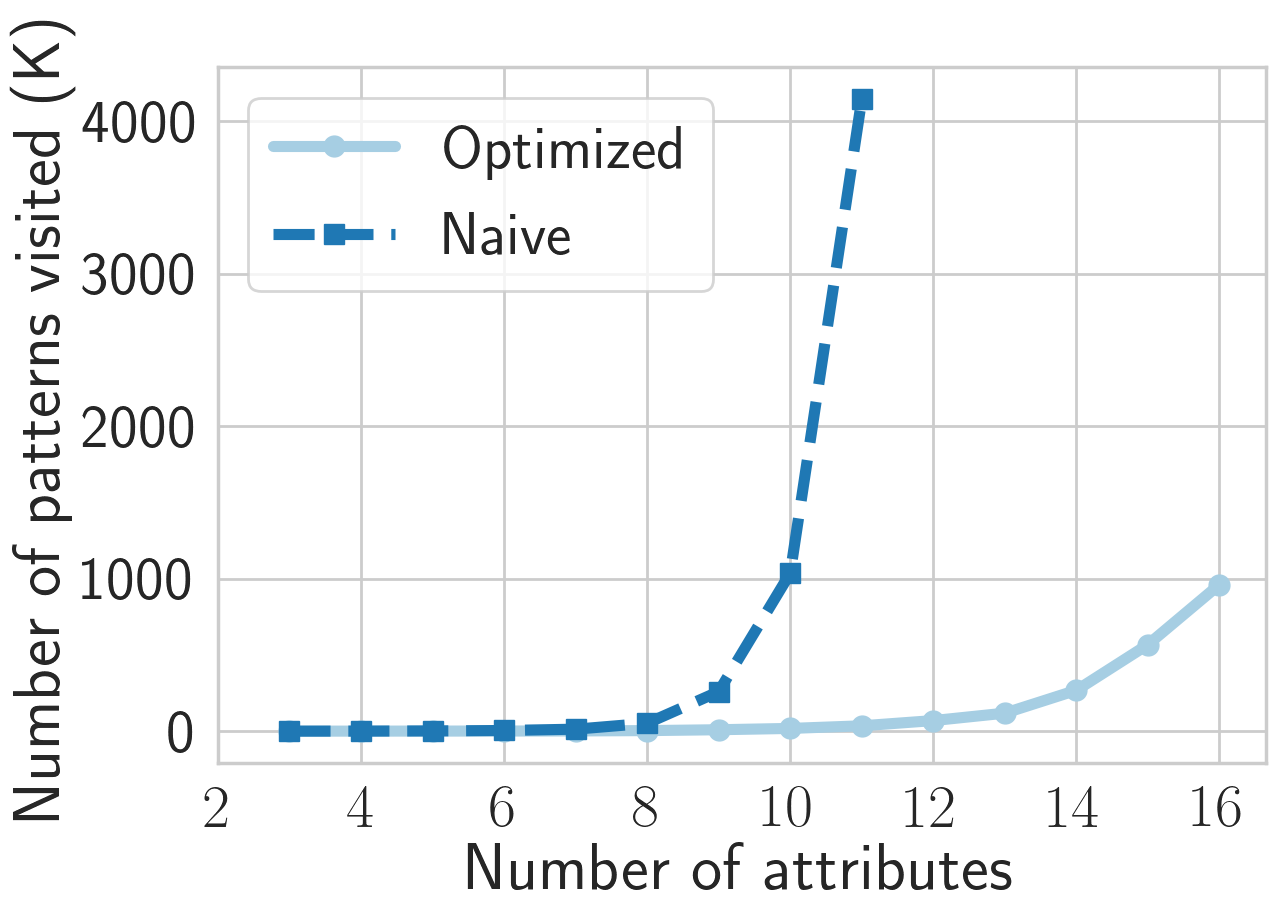
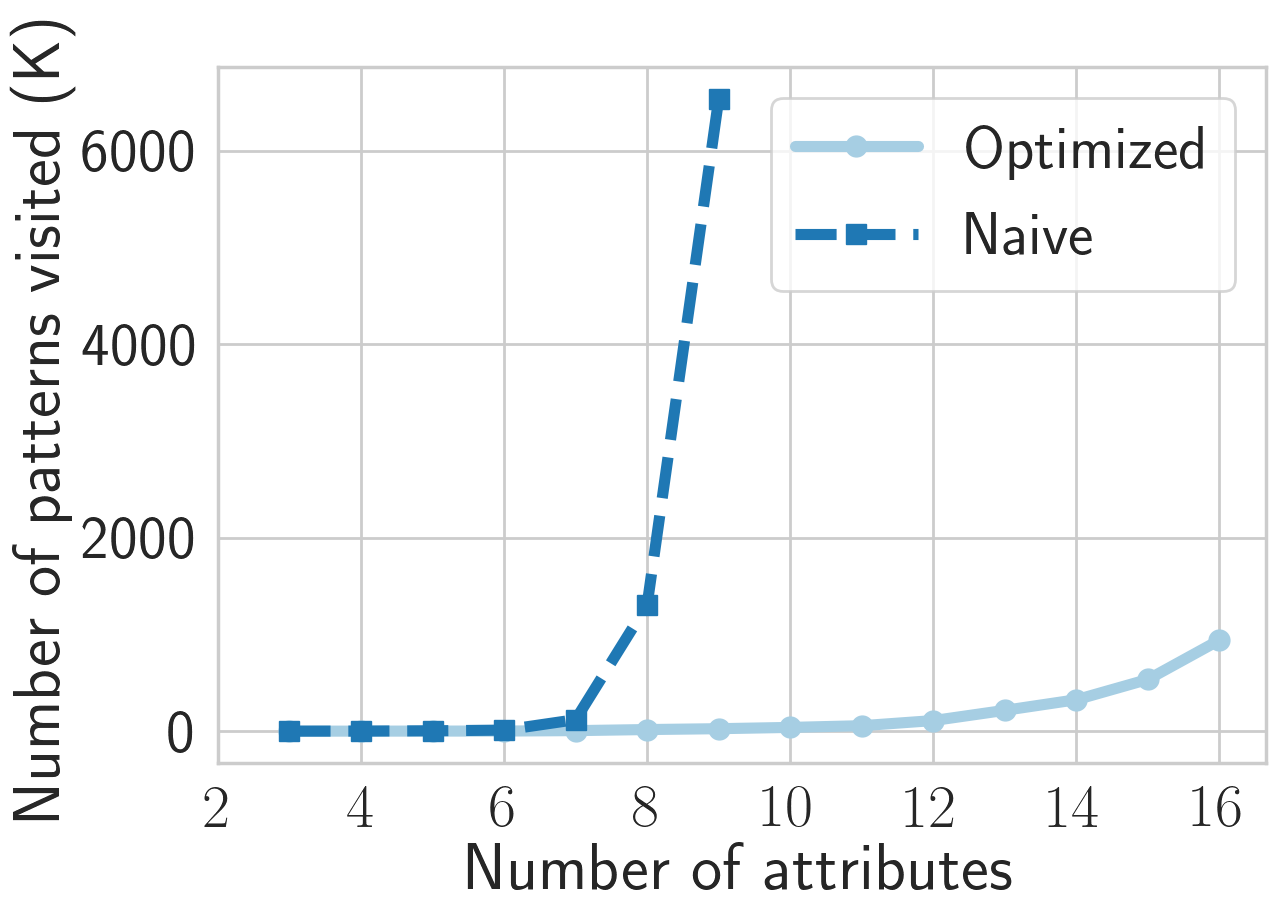
acc, compas, num att

diff --git a/Coding/Experiments/AccuracyFairness/CompasData/num_attributes_5_20211020.py b/Coding/Experiments/AccuracyFairness/CompasData/num_attributes_5_20211020.py
@@ -78,6 +78,10 @@ def GridSearch(original_data, mis_data, all_attributes, thc, number_attributes, 
         pattern_with_low_accuracy1, num_calculation1, execution_time1 = newalg.GraphTraverse(less_attribute_data,
                                                                               mis_class_data, tha,
                                                                               thc, time_limit)
+        print("newalg, time = {} s, num_calculation = {}".format(execution_time1, num_calculation1), "\n",
+              pattern_with_low_accuracy1)
+        if execution_time1 > time_limit:
+            raise Exception("new alg over time")
         print("{} patterns with low accuracy: \n {}".format(len(pattern_with_low_accuracy1), pattern_with_low_accuracy1))
         return execution_time1, num_calculation1, 0, 0, pattern_with_low_accuracy1
 
@@ -114,19 +118,16 @@ def GridSearch(original_data, mis_data, all_attributes, thc, number_attributes, 
 
 
 
-all_attributes = ['sex_binary', 'age_binary', 'race_C', 'MarriageStatus_C', 'priors_count_C',
-                    'c_charge_degree_C', 'decile_score_C', 'c_days_from_compas_C','juv_fel_count_C', 'juv_misd_count_C',
-                  'juv_other_count_C', 'days_b_screening_arrest_C',
-                  'v_decile_score_C', 'start_C', 'end_C', 'event_C',
-                  'Violence_score', 'Recidivism_score']
-
-
+all_attributes = ['sexC', 'ageC', 'raceC', 'MC', 'priors_count_C', 'c_charge_degree', 'decile_score',
+                'c_days_from_compas_C',
+                'juv_fel_count_C', 'juv_misd_count_C', 'juv_other_count_C', 'start_C', 'end_C',
+                  'v_decile_score_C', 'Violence_score_C', 'event_C']
 
 Thc = 50
 
-original_data_file = "../../../../InputData/CompasData/general/compas_data_cat_predictors.csv"
+original_data_file = "../../../../InputData/CompasData/Preprocessed_classified/RecidivismData_17att_classified_testdata.csv"
 original_data = pd.read_csv(original_data_file)
-mis_data_file = "../../../../InputData/CompasData/general/compas_data_cat_predictors_mis.csv"
+mis_data_file = "../../../../InputData/CompasData/Preprocessed_classified/RecidivismData_17att_classified_mis.csv"
 mis_data = pd.read_csv(mis_data_file)
 
 
@@ -138,9 +139,8 @@ overall_acc = 1 - len(mis_data) / len(original_data)
 time_limit = 10*60
 # when there are 12 attributes, naive time out
 # with 11 att, naive needs 137 s
-# with 10 att, naive needs 38 s
-# naive alg out of time when num_att_max_naive = 13 !!! (with 10min time-out)
-num_att_max_naive = 12
+# with 10 att, naive time out > 10 min
+num_att_max_naive = 10
 num_att_min = 3
 num_att_max = 17
 execution_time1 = list()
